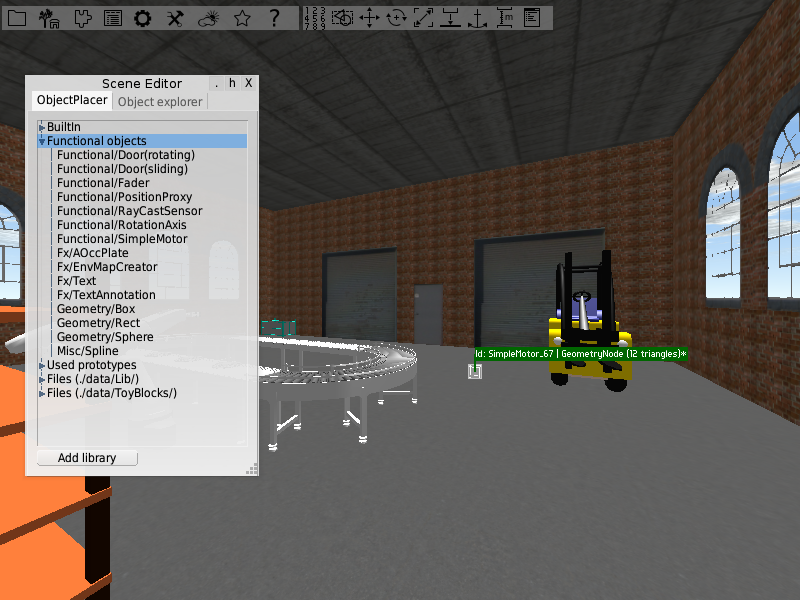
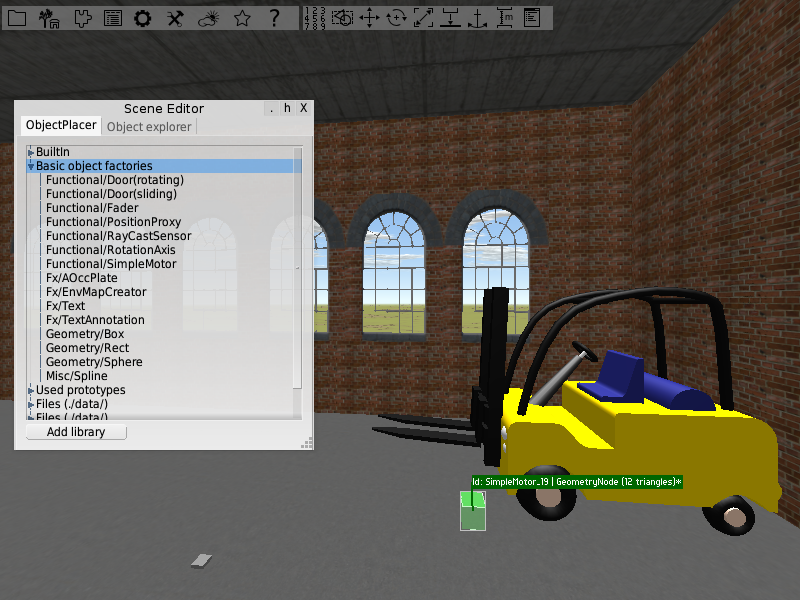
Changed tutorial 3 to match with the new plugin

diff --git a/Tutorial 3/Tutorial3.md b/Tutorial 3/Tutorial3.md
@@ -155,22 +155,20 @@ But till now the forklift is not moving.
 We have to add something that drives the animation.
 We will use a _SimpleMotor_ for this purpose.
 We have to activate a plugin in order to add it to the object placer.
-<!--TODO change this when the new version is avaiable-->
 Go to _Config_ and open _Plugins_.
-Search for the _QP\_MMI_ plugin and activate it.
-<!--#################################################-->
+Search for the _ObjectFactories_ plugin and activate it.
 
 The plugin provides predefined objects that already have some traits attached to them.
 The objects are thought to serve recurrent tasks to make your life easier.
 Save the configuration and restart PADrend.
 Make sure you have saved your scene before restarting.
 
-![Activating QP_MMI plugin](figures/qp_mmi_plugin.png)
+![Activating ObjectFactories plugin](figures/object_factories_plugin.png)
 
 Open your saved scene.
-Now open the object placer and drag an instance of _SimpleMotor_ (you can find it under the item _Funtional objects_) into the scene.
+Now open the object placer and drag an instance of _SimpleMotor_ (you can find it under the item _Basic object factories_) into the scene.
 
-![Activating QP_MMI plugin](figures/simple_motor_added.png)
+![Adding a simple motor to the scene](figures/simple_motor_added.png)
 
 ## Node links
 To get the animation running we need to connect the motor to it.
